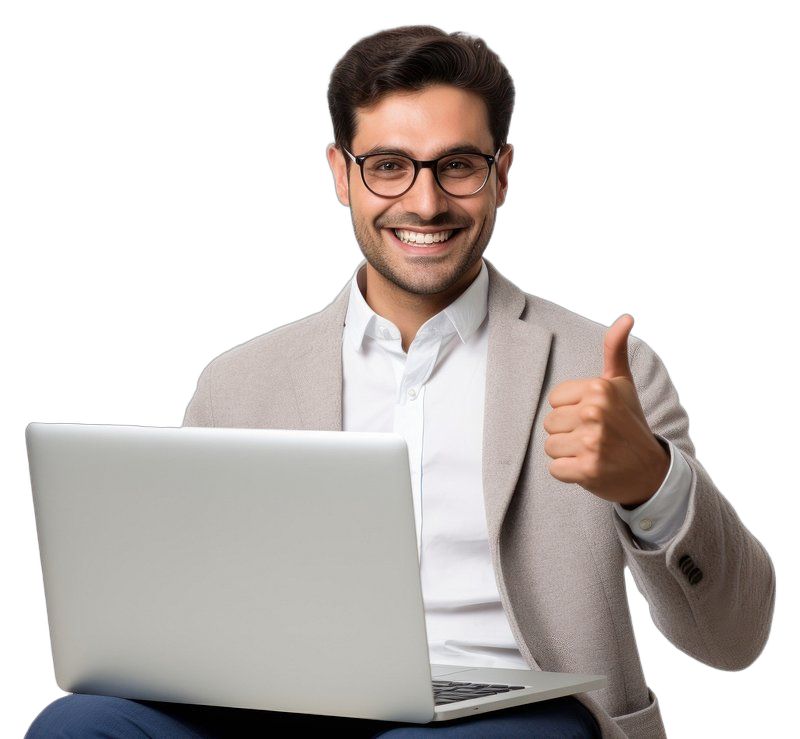
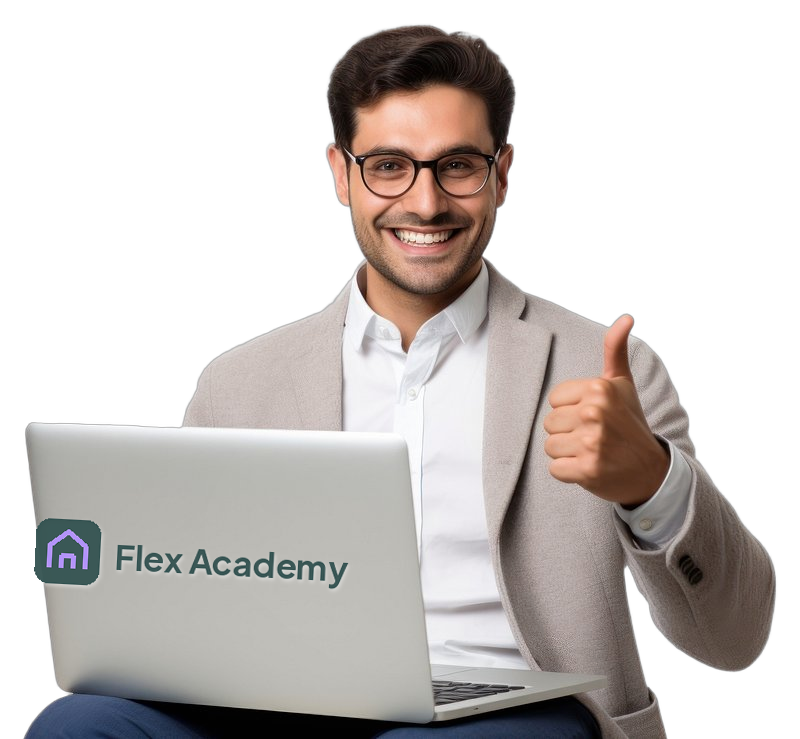
Pass 3: visible hero doodles, consistent section rhythm, equal method cards, blue primaries, token gradients, motion
- Fix doodles being invisible (opacity:0 base under reduced-motion)
- One --sec rhythm for every band; remove ad-hoc padding overrides
- Method: equal-height cards, image fills the copy column; fix section
  .dark padding leaking into .card.dark
- All primary CTAs indigo; green panels/tags become token gradients
- Remove 'Stock image' and 'Confirm before launch' flags
- Flex Academy wordmark composited onto the hero laptop lid
- Scroll reveal, count-up, hero mouse parallax, card tilt, hover lifts,
  progress bar, hide-on-scroll header; all respect reduced motion

Claude-Session: https://claude.ai/code/session_01VTpA1Xm7698hi2MGtApcSh

Changed region(s): [[0.0312, 0.6847, 0.4375, 0.8092]]

diff --git a/flex-academy/index.html b/flex-academy/index.html
@@ -156,16 +156,16 @@ ul,ol{margin:0;padding:0;list-style:none}
 .hero-person .slot-tag{left:auto;right:0;bottom:auto;top:0;max-width:200px;background:rgba(0,0,0,.35)}
 /* Hero motion concept: headline underline draws in, doodles pop in staggered, figure rises. Off under prefers-reduced-motion. */
 @keyframes draw{from{transform:scaleX(0)}to{transform:scaleX(1)}}
-@keyframes pop{from{opacity:0;transform:scale(.6) rotate(-8deg)}to{opacity:.9;transform:none}}
+@keyframes pop{from{opacity:0;transform:scale(.6) rotate(-8deg)}to{opacity:1;transform:none}}
 @keyframes rise{from{opacity:0;transform:translateY(24px)}to{opacity:1;transform:none}}
 .hero .uline::after{transform-origin:left;animation:draw .6s var(--ease) .5s both}
-.hero .doodle{opacity:0;animation:pop .5s var(--ease) both}
+.hero .doodle{animation:pop .5s var(--ease) both}
 .hero .doodle.d1{animation-delay:.9s}.hero .doodle.d2{animation-delay:1.05s}.hero .doodle.d3{animation-delay:1.2s}.hero .doodle.d4{animation-delay:1.35s}.hero .doodle.d5{animation-delay:1.5s}.hero .doodle.d6{animation-delay:1.65s}
 .hero-person{animation:rise .7s var(--ease) .2s both}
-.embed .hero .uline::after,.embed .hero .doodle,.embed .hero-person{animation:none;opacity:.9}
+.embed .hero .uline::after,.embed .hero .doodle,.embed .hero-person{animation:none;opacity:1}
 .embed .hero-person{opacity:1}
-.doodle{position:absolute;color:#fff;opacity:.9;pointer-events:none}
-.doodle svg{width:100%;height:100%;fill:none;stroke:currentColor;stroke-width:2;stroke-linecap:round;stroke-linejoin:round}
+.doodle{position:absolute;color:#fff;opacity:1;pointer-events:none;filter:drop-shadow(0 2px 6px rgba(0,0,0,.35))}
+.doodle svg{width:100%;height:100%;fill:none;stroke:currentColor;stroke-width:2.6;stroke-linecap:round;stroke-linejoin:round}
 .doodle.d1{left:0;top:96px;width:56px;height:56px}          /* sparkle */
 .doodle.d2{left:6%;top:220px;width:64px;height:48px}        /* envelope */
 .doodle.d3{right:2%;top:60px;width:70px;height:40px}        /* arrow */
@@ -246,7 +246,7 @@ ul,ol{margin:0;padding:0;list-style:none}
 
 /* ---------- Dark "Scale" section ---------- */
 .dark-wrap{padding:0 16px}
-.dark{background:var(--forest);color:#fff;border-radius:var(--r-xl);padding:80px 0}
+section.dark{background:var(--forest);color:#fff;border-radius:var(--r-xl);padding:96px 0}
 .dark-head{text-align:center;max-width:640px;margin:0 auto 48px}
 .dark-head .lede{margin:12px auto 0;font-size:14.5px}
 .dark-grid{display:grid;grid-template-columns:1fr 340px 1fr;gap:32px;align-items:center}
@@ -634,7 +634,7 @@ ul,ol{margin:0;padding:0;list-style:none}
   .pin.p1{left:0;top:6%}.pin.p2{right:0;top:14%}.pin.p3{left:0;bottom:14%}.pin.p4{right:0;bottom:4%}
   .mini{display:none}
   .dark-wrap{padding:0 8px}
-  .dark{padding:56px 0;border-radius:16px}
+  section.dark{padding:64px 0;border-radius:16px}
   .dark-col{grid-template-columns:1fr;gap:18px}
   .dark-circle{width:260px;height:260px}
   .dark-circle .circle{width:230px;height:230px}
@@ -752,6 +752,101 @@ body{background:var(--cream-50)}
 /* Focus */
 :focus-visible{outline:3px solid var(--focus)}
 .seg input:focus-visible + label,.chips input:focus-visible + label,.bands input:focus-visible + label{outline-color:var(--focus)}
+
+/* =====================================================================
+   PASS 3 — rhythm, method grid, blue primaries, gradients, motion
+   ===================================================================== */
+:root{--sec:120px;--grad-panel:radial-gradient(90% 70% at 100% 100%,rgba(75,91,239,.45) 0%,rgba(75,91,239,0) 62%),radial-gradient(60% 55% at 0% 0%,rgba(141,95,246,.28) 0%,rgba(141,95,246,0) 60%),linear-gradient(160deg,var(--teal-900) 0%,var(--teal-800) 100%)}
+@media (max-width:640px){:root{--sec:72px}}
+
+/* Consistent vertical rhythm: every band gets the same breathing room */
+.section{padding:var(--sec) 0}
+.strip{padding:0 16px var(--sec)}
+.hero-wrap{padding:0 16px}
+.dark-wrap{padding:0 16px}
+.final-wrap{padding:0 16px 16px}
+@media (max-width:640px){.strip{padding:0 8px var(--sec)}}
+
+/* Method: equal boxes, image fills the column beside them */
+.two-col{align-items:stretch}
+.two-col > .col-copy{display:flex;flex-direction:column}
+.method-photo{flex:1;display:flex;flex-direction:column;margin-top:28px!important;min-height:0}
+.method-photo .slot{flex:1;aspect-ratio:auto;min-height:240px;border-radius:var(--r-lg)}
+.cards6{align-content:stretch;grid-auto-rows:1fr}
+.card{min-height:170px;padding:20px}
+.card.dark{padding:20px;border-radius:var(--r-md);border-color:transparent}
+.alt.dark{padding:20px;border-color:transparent}
+@media (max-width:640px){.method-photo .slot{min-height:200px;flex:none;aspect-ratio:5/3}.two-col{align-items:start}.cards6{grid-auto-rows:auto}}
+
+/* Primary actions are indigo everywhere (secondary stay outlined) */
+.btn-ink,.on-dark .btn-launch,.btn-launch{background:var(--indigo-500);color:#fff}
+.btn-ink:hover,.on-dark .btn-launch:hover,.btn-launch:hover{background:var(--indigo-600)}
+.on-dark .btn-launch .spinner{border-color:rgba(255,255,255,.3);border-top-color:#fff}
+
+/* Green → gradients built from the tokens */
+.hero,section.dark,.final,.strip-band,.card.dark,.alt.dark,.dialog-aside,.dialog-aside.is-launch{background:var(--grad-panel)}
+.brand-mark,.sticky-cta{background:var(--grad-panel)}
+.badge-launch,.tag-l,.chip.g,.card.dark .tag-l{background:var(--grad-tab);color:#fff;border:0}
+.uline::after,.on-dark .uline::after{background:var(--grad-display);opacity:1}
+.faq-list details[open] summary .pm{background:var(--indigo-500);border-color:var(--indigo-500)}
+.seg input:checked + label{background:var(--grad-panel)}
+.stepper li.on i{background:var(--indigo-500);border-color:var(--indigo-500)}
+.next-steps li::before{background:var(--indigo-50);color:var(--indigo-700)}
+.cal-ic span{background:var(--grad-panel)}
+.hero-proof .stack i.d{background:var(--indigo-500);border-color:transparent}
+
+/* Hover & interaction */
+.btn{transition:background .2s var(--ease),transform .2s var(--ease),box-shadow .25s var(--ease),border-color .2s var(--ease),color .2s}
+.btn:hover{transform:translateY(-2px)}
+.btn-launch:hover,.btn-ink:hover{box-shadow:0 12px 28px rgba(75,91,239,.35)}
+.btn-scale:hover,.btn-outline:hover{box-shadow:0 10px 24px rgba(16,21,38,.12)}
+.card,.item,.alt{transition:transform .35s var(--ease),box-shadow .35s var(--ease),border-color .2s}
+.card:hover,.item:hover,.alt:hover{transform:translateY(-6px);box-shadow:0 18px 40px rgba(16,21,38,.10)}
+.card-ic,.item-top .ic,.challenge-ic{transition:transform .35s var(--ease),background .3s}
+.card:hover .card-ic,.item:hover .item-top .ic{transform:rotate(-8deg) scale(1.08);background:var(--indigo-50)}
+.card.dark:hover .card-ic{background:rgba(255,255,255,.14)}
+.slot img{transition:transform 1.2s var(--ease)}
+.circle:hover img,.method-photo .slot:hover img,.founders-photo .slot:hover img{transform:scale(1.06)}
+.pin,.mini{transition:transform .35s var(--ease),box-shadow .35s}
+.pin:hover,.mini:hover{transform:translateY(-3px) scale(1.04);box-shadow:0 10px 24px rgba(16,21,38,.12)}
+.nav-links a{position:relative;padding:4px 0}
+.nav-links a::after{content:"";position:absolute;left:0;right:0;bottom:-2px;height:2px;border-radius:2px;background:var(--grad-tab);transform:scaleX(0);transform-origin:left;transition:transform .3s var(--ease)}
+.nav-links a:hover::after{transform:scaleX(1)}
+.faq-list summary{transition:color .2s}
+.faq-list summary:hover{color:var(--indigo-600)}
+.seg label,.chips label,.bands label{transition:background .2s,color .2s,transform .15s}
+.seg label:hover,.chips label:hover{transform:translateY(-1px)}
+.dark-item{transition:transform .35s var(--ease)}
+.dark-item:hover{transform:translateX(4px)}
+.dark-col.r .dark-item:hover{transform:translateX(-4px)}
+.final-row{transition:transform .35s var(--ease),border-color .3s}
+.final-row:hover{transform:translateY(-3px);border-color:rgba(178,147,249,.5)}
+
+/* Ambient motion */
+@keyframes floaty{0%,100%{transform:translateY(0)}50%{transform:translateY(-8px)}}
+@keyframes floaty2{0%,100%{transform:translateY(0) rotate(0)}50%{transform:translateY(-10px) rotate(4deg)}}
+@keyframes pulse-ring{0%{box-shadow:0 0 0 0 rgba(178,147,249,.45)}100%{box-shadow:0 0 0 22px rgba(178,147,249,0)}}
+@keyframes shimmer{0%{background-position:0% 50%}100%{background-position:200% 50%}}
+.doodle svg{animation:floaty2 6s ease-in-out infinite}
+.doodle.d2 svg,.doodle.d4 svg,.doodle.d6 svg{animation-duration:7.5s;animation-direction:reverse}
+.pin{animation:floaty 5s ease-in-out infinite}
+.pin.p2{animation-delay:-1.2s}.pin.p3{animation-delay:-2.4s}.pin.p4{animation-delay:-3.6s}
+.mini{animation:floaty 6s ease-in-out infinite;animation-delay:-2s}
+.dark-circle .circle::after{content:"";position:absolute;inset:0;border-radius:50%;animation:pulse-ring 3.2s ease-out infinite;pointer-events:none}
+.uline::after{background-size:200% 100%;animation:shimmer 6s linear infinite}
+.hero-person{will-change:transform}
+.parallax{will-change:transform;transition:transform .12s linear}
+
+/* Scroll reveal */
+.rv{opacity:0;transform:translateY(28px);transition:opacity .8s var(--ease),transform .8s var(--ease);transition-delay:calc(var(--i,0)*70ms)}
+.rv.in{opacity:1;transform:none}
+.embed .rv,.no-motion .rv{opacity:1;transform:none;transition:none}
+#progress{position:fixed;left:0;top:0;height:3px;width:100%;transform-origin:left;transform:scaleX(0);background:var(--grad-tab);z-index:60;pointer-events:none}
+.site-header{transition:box-shadow .3s,border-color .2s,transform .35s var(--ease)}
+.site-header.is-scrolled{box-shadow:0 8px 30px rgba(16,21,38,.06)}
+.site-header.is-hidden{transform:translateY(-100%)}
+.stat b{font-variant-numeric:tabular-nums}
+@media (prefers-reduced-motion:reduce){.rv{opacity:1;transform:none}.doodle svg,.pin,.mini,.uline::after,.dark-circle .circle::after{animation:none}}
 </style>
 </head>
 <body>
@@ -886,7 +981,6 @@ body{background:var(--cream-50)}
       <p class="micro" style="margin-top:14px;color:var(--muted)"><span class="ph">Proposed learning journey</span> Final syllabus to be confirmed.</p>
       <figure class="method-photo" style="margin:28px 0 0">
         <div class="slot" data-photo="method-apartment.jpg"><img alt="A furnished short-term rental living and dining room opening onto a terrace"><div class="fallback"></div><span class="slot-tag"><b>Photo slot</b> · <code>photos/method-apartment.jpg</code></span></div>
-        <figcaption class="micro" style="margin-top:8px;color:var(--muted)">The kind of unit the method is built around. <span class="ph">Stock image — replace with official The Flex photography</span></figcaption>
       </figure>
     </div>
     <ol class="col-grid cards6">
@@ -914,11 +1008,11 @@ body{background:var(--cream-50)}
       </div>
     </div>
   </div>
-  <p class="strip-note"><span>Figures supplied in the brief. Cities: London, Paris, Lisbon, Berlin, Algiers, Oran, Constantine — Milan and Cairo upcoming.</span><span class="ph">Confirm before launch</span></p>
+  <p class="strip-note"><span>Figures supplied in the brief. Cities: London, Paris, Lisbon, Berlin, Algiers, Oran, Constantine — Milan and Cairo upcoming.</span></p>
 </section>
 
 <!-- ======================= LAUNCH: split with circular image + map ======================= -->
-<section class="section" id="launch" aria-labelledby="launch-title" style="padding-top:0">
+<section class="section" id="launch" aria-labelledby="launch-title">
   <div class="container split">
     <div class="copy">
       <span class="badge badge-launch">01 · Launch</span>
@@ -1019,7 +1113,7 @@ body{background:var(--cream-50)}
 </section>
 
 <!-- ======================= VS THE ALTERNATIVES ======================= -->
-<section class="section" id="why" aria-labelledby="why-title" style="padding-top:0">
+<section class="section" id="why" aria-labelledby="why-title">
   <div class="container">
     <div class="list-head">
       <div>
@@ -1038,7 +1132,7 @@ body{background:var(--cream-50)}
 </section>
 
 <!-- ======================= FOUNDERS ======================= -->
-<section class="section" id="founders" aria-labelledby="founders-title" style="padding-top:0">
+<section class="section" id="founders" aria-labelledby="founders-title">
   <div class="container founders">
     <div class="copy">
       <span class="eyebrow">The founders</span>
@@ -1055,7 +1149,7 @@ body{background:var(--cream-50)}
 </section>
 
 <!-- ======================= WHO IT'S FOR ======================= -->
-<section class="section" id="who" aria-labelledby="who-title" style="padding-top:0">
+<section class="section" id="who" aria-labelledby="who-title">
   <div class="container">
     <div class="who">
       <div class="who-col">
@@ -1101,7 +1195,7 @@ body{background:var(--cream-50)}
 </section>
 
 <!-- ======================= OUTCOMES ======================= -->
-<section class="section" id="proof" aria-labelledby="proof-title" style="padding-top:0">
+<section class="section" id="proof" aria-labelledby="proof-title">
   <div class="container">
     <div class="list-head">
       <div>
@@ -1118,7 +1212,7 @@ body{background:var(--cream-50)}
 </section>
 
 <!-- ======================= FAQ ======================= -->
-<section class="section" id="faq" aria-labelledby="faq-title" style="padding-top:0">
+<section class="section" id="faq" aria-labelledby="faq-title">
   <div class="container faq-grid">
     <div class="faq-intro">
       <span class="eyebrow">FAQ</span>
@@ -1787,6 +1881,84 @@ body{background:var(--cream-50)}
     var anchor = params.get('at');
     var report = function(){ parent.postMessage({fa:true, id:params.get('id'), h:document.documentElement.scrollHeight}, '*'); };
     addEventListener('load', function(){ if (anchor){ var t = document.getElementById(anchor); if (t) { document.documentElement.style.scrollBehavior='auto'; scrollTo(0, t.getBoundingClientRect().top + scrollY - (+params.get('offset')||0)); } } report(); setTimeout(report, 600); });
+  }
+})();
+</script>
+
+<div id="progress" aria-hidden="true"></div>
+<script>
+(function(){
+  var reduce = matchMedia('(prefers-reduced-motion: reduce)').matches;
+  var embed = document.body.classList.contains('embed');
+  if (reduce) document.documentElement.classList.add('no-motion');
+  var $$ = function(s,r){return Array.prototype.slice.call((r||document).querySelectorAll(s))};
+
+  /* Scroll progress + hide-on-scroll-down header */
+  var bar = document.getElementById('progress'), header = document.querySelector('.site-header'), lastY = 0;
+  function onScroll(){
+    var h = document.documentElement, max = h.scrollHeight - h.clientHeight;
+    if (bar) bar.style.transform = 'scaleX(' + (max ? scrollY / max : 0) + ')';
+    var goingDown = scrollY > lastY && scrollY > 320;
+    header.classList.toggle('is-hidden', goingDown && !document.querySelector('.dialog.is-open'));
+    lastY = scrollY;
+  }
+  if (!embed){ addEventListener('scroll', onScroll, {passive:true}); onScroll(); }
+
+  /* Scroll reveal with stagger */
+  if (!embed && !reduce && 'IntersectionObserver' in window){
+    var groups = ['.section > .container > *:not(.two-col):not(.split):not(.founders):not(.faq-grid)','.two-col > *','.split > *','.founders > *','.faq-grid > *','.cards6 > li','.grid4 > li','.alts > li','.dark-head','.dark-col > *','.dark-circle','.dark-cta','.who-col','.outcomes > *','.strip-band','.final-top > *','.footer-grid > div'];
+    var seen = new Set();
+    groups.forEach(function(sel){
+      var idx = {};
+      $$(sel).forEach(function(el){
+        if (seen.has(el) || el.closest('.rv')) return; seen.add(el);
+        var key = el.parentNode; idx[key] = (idx[key]||0); el.style.setProperty('--i', Math.min(idx[key]++, 8)); el.classList.add('rv');
+      });
+    });
+    var io = new IntersectionObserver(function(es){ es.forEach(function(e){ if (e.isIntersecting){ e.target.classList.add('in'); io.unobserve(e.target); } }); }, {rootMargin:'0px 0px -8% 0px', threshold:.08});
+    $$('.rv').forEach(function(el){ io.observe(el); });
+    // anything already in view at load
+    requestAnimationFrame(function(){ $$('.rv').forEach(function(el){ var r = el.getBoundingClientRect(); if (r.top < innerHeight*.9) el.classList.add('in'); }); });
+  }
+
+  /* Count-up on the proof strip */
+  if (!embed && !reduce && 'IntersectionObserver' in window){
+    var counted = false;
+    var io2 = new IntersectionObserver(function(es){
+      if (!es[0].isIntersecting || counted) return; counted = true;
+      $$('.strip .stat b').forEach(function(b){
+        var m = b.textContent.match(/^(\d+)(.*)$/); if (!m) return;
+        var to = +m[1], suffix = m[2], t0 = performance.now(), dur = 1400;
+        (function tick(now){ var p = Math.min(1, (now - t0)/dur); p = 1 - Math.pow(1-p, 3); b.textContent = Math.round(to*p) + suffix; if (p < 1) requestAnimationFrame(tick); })(t0);
+      });
+    }, {threshold:.4});
+    var strip = document.querySelector('.strip-band'); strip && io2.observe(strip);
+  }
+
+  /* Hero mouse parallax: doodles drift, figure and headline counter-move */
+  var hero = document.querySelector('.hero');
+  if (hero && !reduce && !embed && matchMedia('(pointer:fine)').matches){
+    var layers = $$('.hero .doodle').map(function(d,i){ d.classList.add('parallax'); return {el:d, depth: 18 + (i%3)*10}; });
+    var person = document.querySelector('.hero-person'); person.classList.add('parallax');
+    var copy = document.querySelector('.hero-copy'); copy.classList.add('parallax');
+    var tx = 0, ty = 0, cx = 0, cy = 0, raf = null;
+    function frame(){
+      cx += (tx - cx) * .12; cy += (ty - cy) * .12;
+      layers.forEach(function(l){ l.el.style.transform = 'translate(' + (cx*l.depth) + 'px,' + (cy*l.depth) + 'px)'; });
+      person.style.transform = 'translate(' + (cx*-10) + 'px,' + (cy*-6) + 'px) rotate(' + (cx*1.2) + 'deg)';
+      copy.style.transform = 'translate(' + (cx*6) + 'px,' + (cy*4) + 'px)';
+      if (Math.abs(tx-cx) > .001 || Math.abs(ty-cy) > .001) raf = requestAnimationFrame(frame); else raf = null;
+    }
+    hero.addEventListener('mousemove', function(e){ var r = hero.getBoundingClientRect(); tx = (e.clientX - r.left)/r.width - .5; ty = (e.clientY - r.top)/r.height - .5; if (!raf) raf = requestAnimationFrame(frame); });
+    hero.addEventListener('mouseleave', function(){ tx = 0; ty = 0; if (!raf) raf = requestAnimationFrame(frame); });
+  }
+
+  /* Cards tilt slightly toward the cursor */
+  if (!reduce && !embed && matchMedia('(pointer:fine)').matches){
+    $$('.card, .item, .alt').forEach(function(c){
+      c.addEventListener('mousemove', function(e){ var r = c.getBoundingClientRect(); var x = (e.clientX - r.left)/r.width - .5, y = (e.clientY - r.top)/r.height - .5; c.style.transform = 'translateY(-6px) rotateX(' + (-y*5) + 'deg) rotateY(' + (x*6) + 'deg)'; c.style.transformStyle = 'preserve-3d'; });
+      c.addEventListener('mouseleave', function(){ c.style.transform = ''; });
+    });
   }
 })();
 </script>

diff --git a/flex-academy/board.html b/flex-academy/board.html
@@ -187,7 +187,7 @@ table.reg th{font-size:11.5px;letter-spacing:.08em;text-transform:uppercase;colo
           <tr><td>Strategy call slots and availability</td><td>Illustrative weekday availability, <span class="ph">[Time slot n]</span></td><td>Scheduling tool (e.g. Calendly or HubSpot) and real availability</td></tr>
           <tr><td>Budget bands</td><td><span class="ph">[Range to be confirmed]</span></td><td>Bands approved by the Academy team</td></tr>
           <tr><td>Founder photographs and bios</td><td>Silhouette placeholders + <span class="ph">[Official bios]</span></td><td>Official, approved portraits and bios</td></tr>
-          <tr><td>Photography</td><td>Hero figure (<code>hero-person.png</code>, background removed), two interiors (<code>launch-apartment.jpg</code>, <code>method-apartment.jpg</code>) and the team photo (<code>scale-team.jpg</code>, Getty 875599880) are <b>stock images supplied via the repo — not made by the designer</b>. <code>founders.jpg</code> is the supplied photo of Raouf Yousfi and Michael Buggy.</td><td>Confirm the Getty licence and the two interior licences; replace interiors with official The Flex photography; supply a higher-resolution founders photo and confirm who is left/right.</td></tr>
+          <tr><td>Photography</td><td>Hero figure (<code>hero-person.png</code>, background removed, Flex Academy wordmark composited on the laptop lid), two interiors (<code>launch-apartment.jpg</code>, <code>method-apartment.jpg</code>) and the team photo (<code>scale-team.jpg</code>, Getty 875599880) are <b>stock images supplied via the repo — not made by the designer</b>. <code>founders.jpg</code> is the supplied photo of Raouf Yousfi and Michael Buggy.</td><td>Confirm the Getty licence and the two interior licences; replace interiors with official The Flex photography; supply a higher-resolution founders photo and confirm who is left/right.</td></tr>
           <tr><td>Testimonials / case studies</td><td><span class="ph">[Insert verified Academy case study…]</span></td><td>Verified student outcomes, with permission</td></tr>
           <tr><td>STR scaling checklist</td><td>Waitlist capture, <span class="ph">Proposed launch asset</span></td><td>The checklist itself, plus ESP integration</td></tr>
           <tr><td>Proof strip: 150+ partners, 130+ platforms, 7 cities</td><td>From the brief</td><td>Confirm current figures with The Flex / Base360 (official sites were not reachable from the design environment)</td></tr>

diff --git a/flex-academy/README.md b/flex-academy/README.md
@@ -17,7 +17,7 @@ All images were supplied via the repo and are wired in. Slots switch from their 
 
 | File | Used for | Source / status |
 | --- | --- | --- |
-| `photos/hero-person.png` | Hero cut-out figure | Client-supplied stock (rawpixel); background removed with rembg. **Not made by the designer.** |
+| `photos/hero-person.png` | Hero cut-out figure | Client-supplied stock (rawpixel); background removed with rembg, and a Flex Academy wordmark composited onto the laptop lid (image generation was unavailable on the free plan, so this was done in Pillow). **Photo not made by the designer.** |
 | `photos/launch-apartment.jpg` | Launch section circle | Client-supplied stock interior. Replace with official The Flex photography. |
 | `photos/method-apartment.jpg` | Card under the method copy | Client-supplied stock interior. Replace with official The Flex photography. |
 | `photos/scale-team.jpg` | Scale section circle | Client-supplied stock (Getty Images 875599880). **Licence must be confirmed before launch.** |
@@ -49,7 +49,7 @@ index.html?embed&at=launch   |   &at=scale   |   &at=checklist
 | Three-brand relationship | Proof strip, founders chain, notes §2 |
 | Desktop 1440 full scroll · Mobile 390 hero + one section | Board pages 01 and 02 |
 | Design notes: audience, structure, 3 decisions, first test, 2-more-days, Loom outline | Board page 04 |
-| Optional hero motion concept | Live in `index.html` hero (underline draws, doodles pop, figure rises; off under reduced motion) |
+| Optional hero motion concept | Live: underline draws, doodles pop and float, figure rises; mouse parallax in the hero; scroll-reveal with stagger on every section; count-up on the proof strip; card tilt and lift on hover; scroll progress bar; hide-on-scroll header. All off under `prefers-reduced-motion`. |
 | Mark anything not made by you | Fonts (SIL OFL) and all photo slots are labelled; no stock or AI imagery is included |
 
 ## Honesty rules applied
